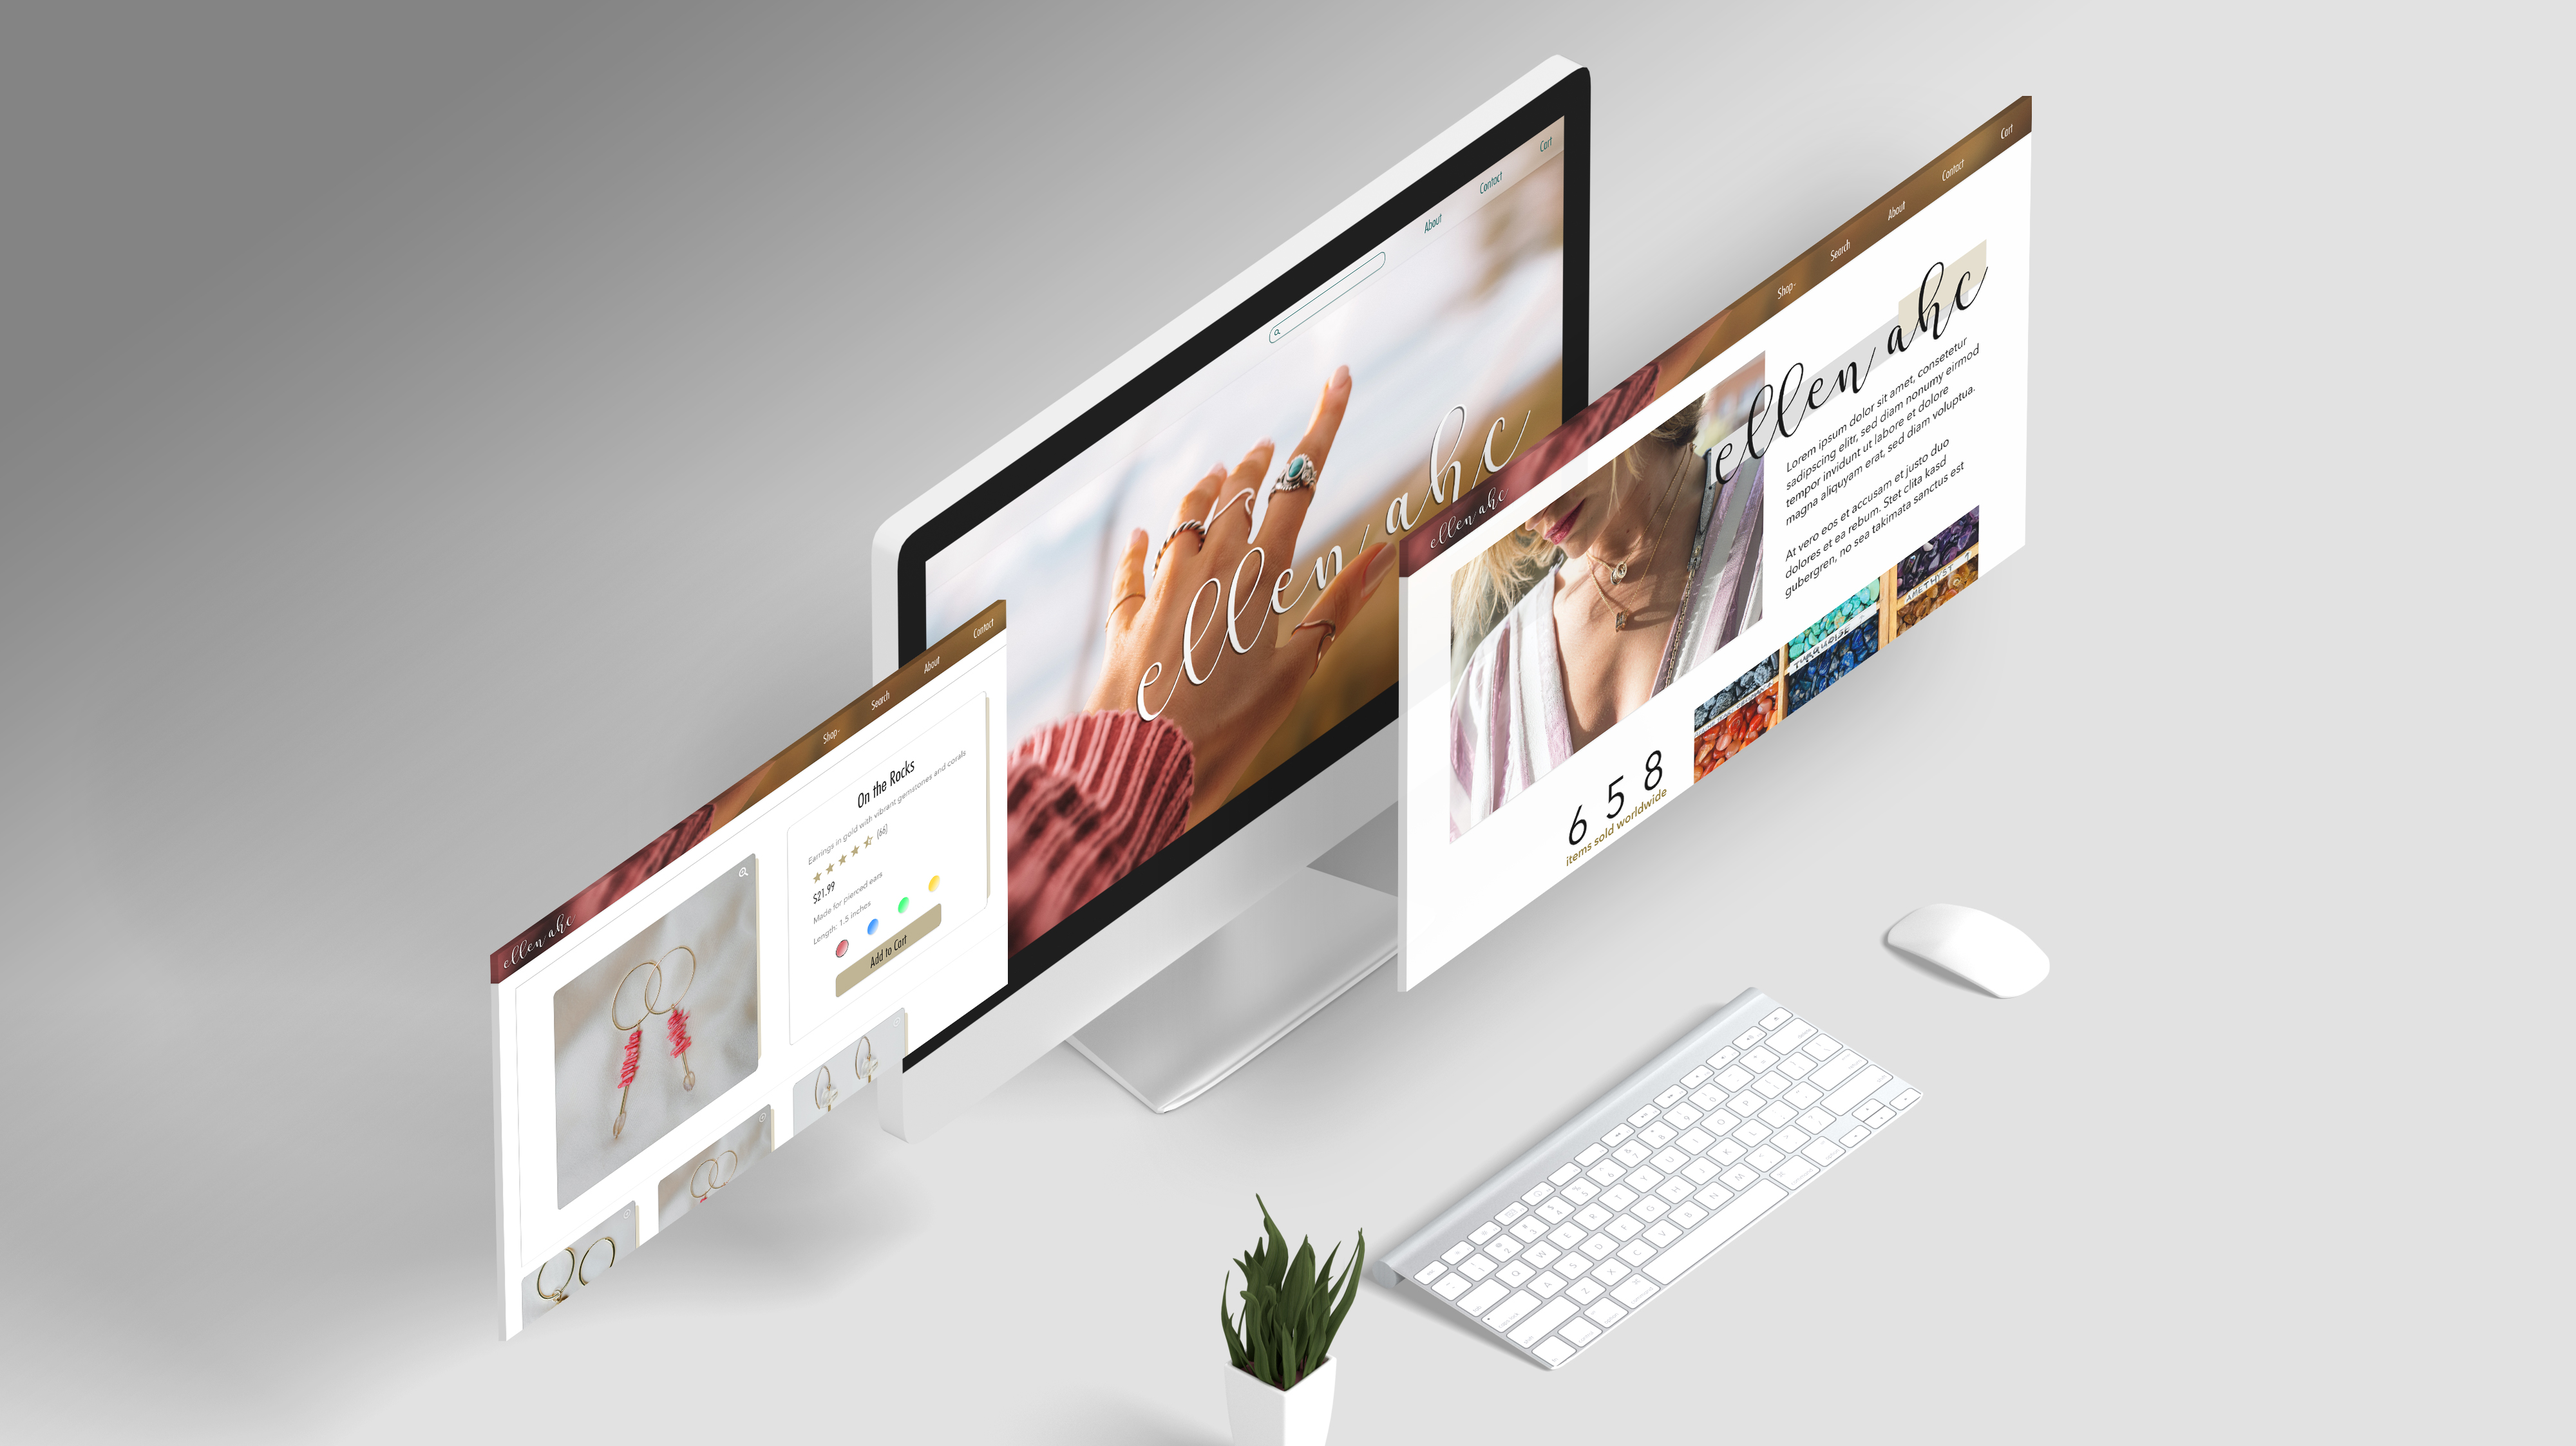
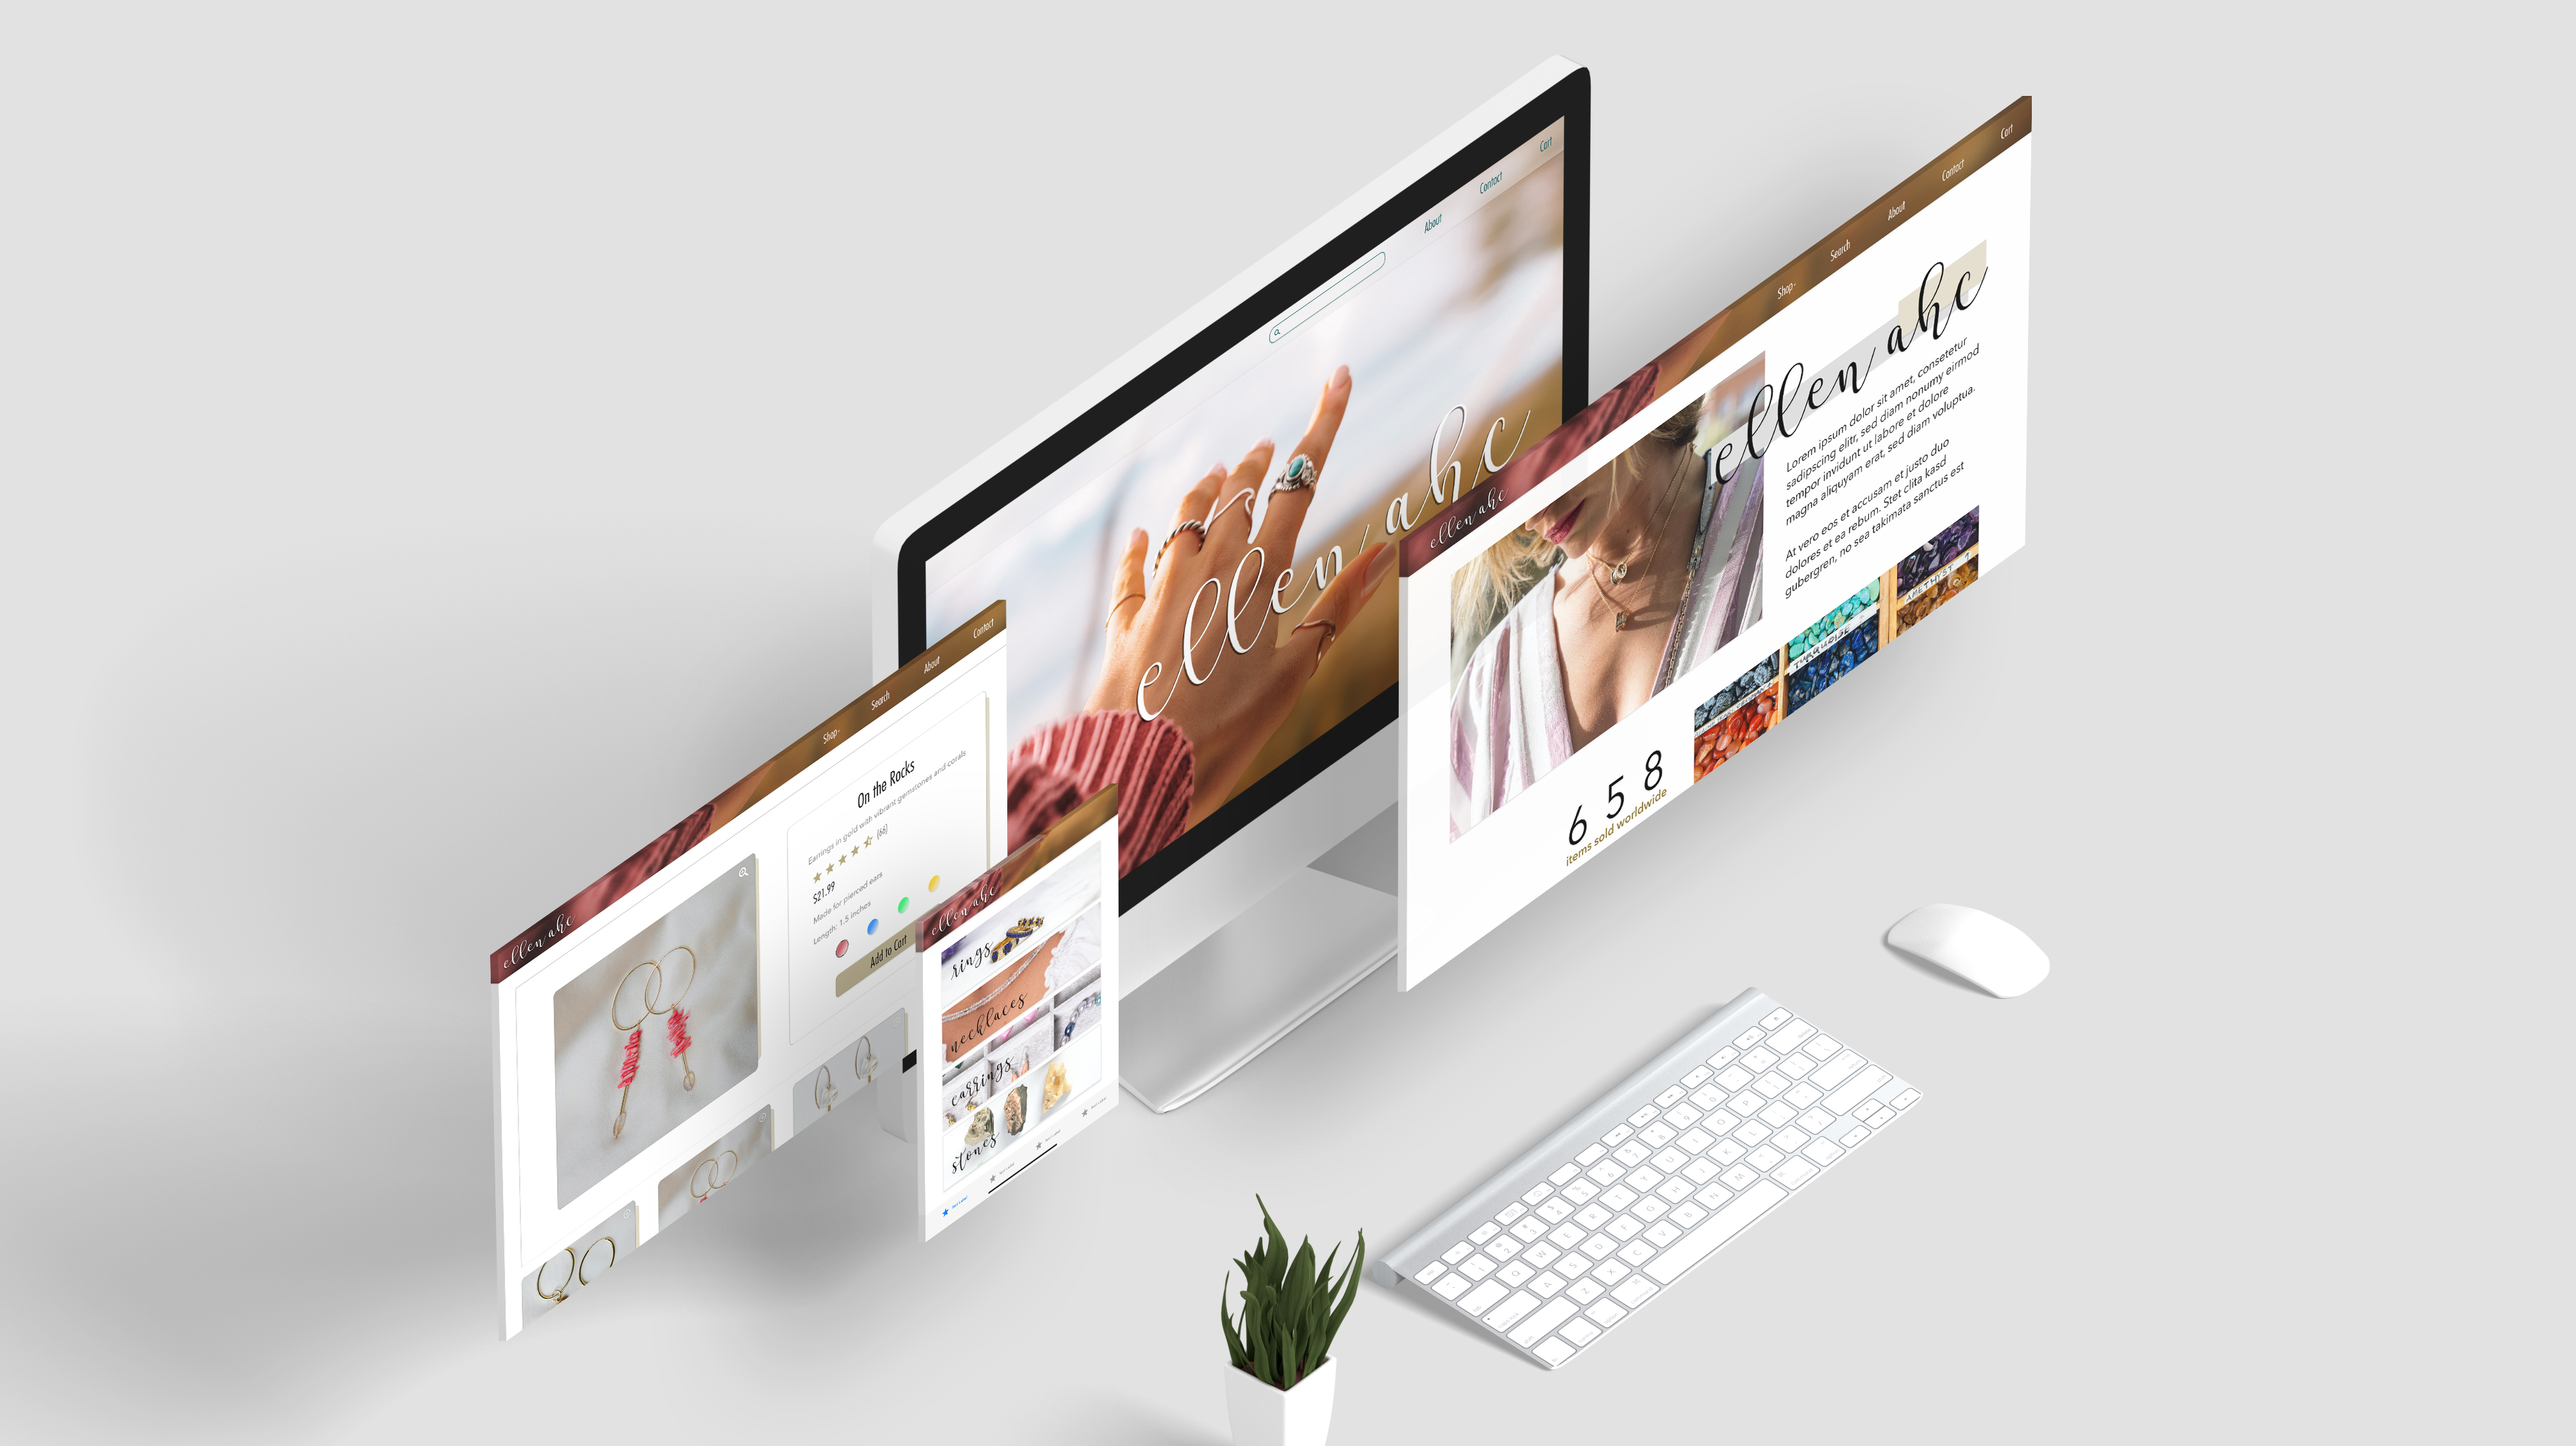
next steps

Changed region(s): [[0.0, 0.0, 0.6562, 0.8103], [0.2812, 0.5298, 0.4375, 0.935]]

diff --git a/ellenahc.html b/ellenahc.html
@@ -123,7 +123,7 @@
         Adobe XD, Adobe Photoshop
       </div>
       <div class="col" style="text-align:center;">
-        <ion-icon name="calendar"></ion-icon></i><strong>&nbsp;timeline</strong><br>Nov. 2019 - Jan. 2020
+        <ion-icon name="calendar"></ion-icon></i><strong>&nbsp;timeline</strong><br>Dec. 2019 - Feb. 2020
       </div>
     </div>
 
@@ -289,7 +289,7 @@
       <strong>
         <h2 class="hdr">Final Prototype</h2>
       </strong><br>
-      This video demo shows the features mentioned above in action.
+      Hover the video demo below for controls, including full-screen and pause.
     </div>
 
     <div class="gap-small"></div>
@@ -307,7 +307,6 @@
 
 
     <div class="container-narrow">
-      <p style="text-align: center;">Hover the video for controls, including full-screen and pause.</p>
       <div class="gap"></div>
 
       <strong>
@@ -319,6 +318,8 @@
       <div class="cntr-wide">
         <blockquote>Working with Tierra was awesome. She made me feel comfortable giving input, so everything felt like a collaborative process. I was in the loop the whole time.</blockquote>
       </div>
+      <p>Mockups for mobile devices and tablets will also be available very soon!</p>
+
 
 
     </div>
